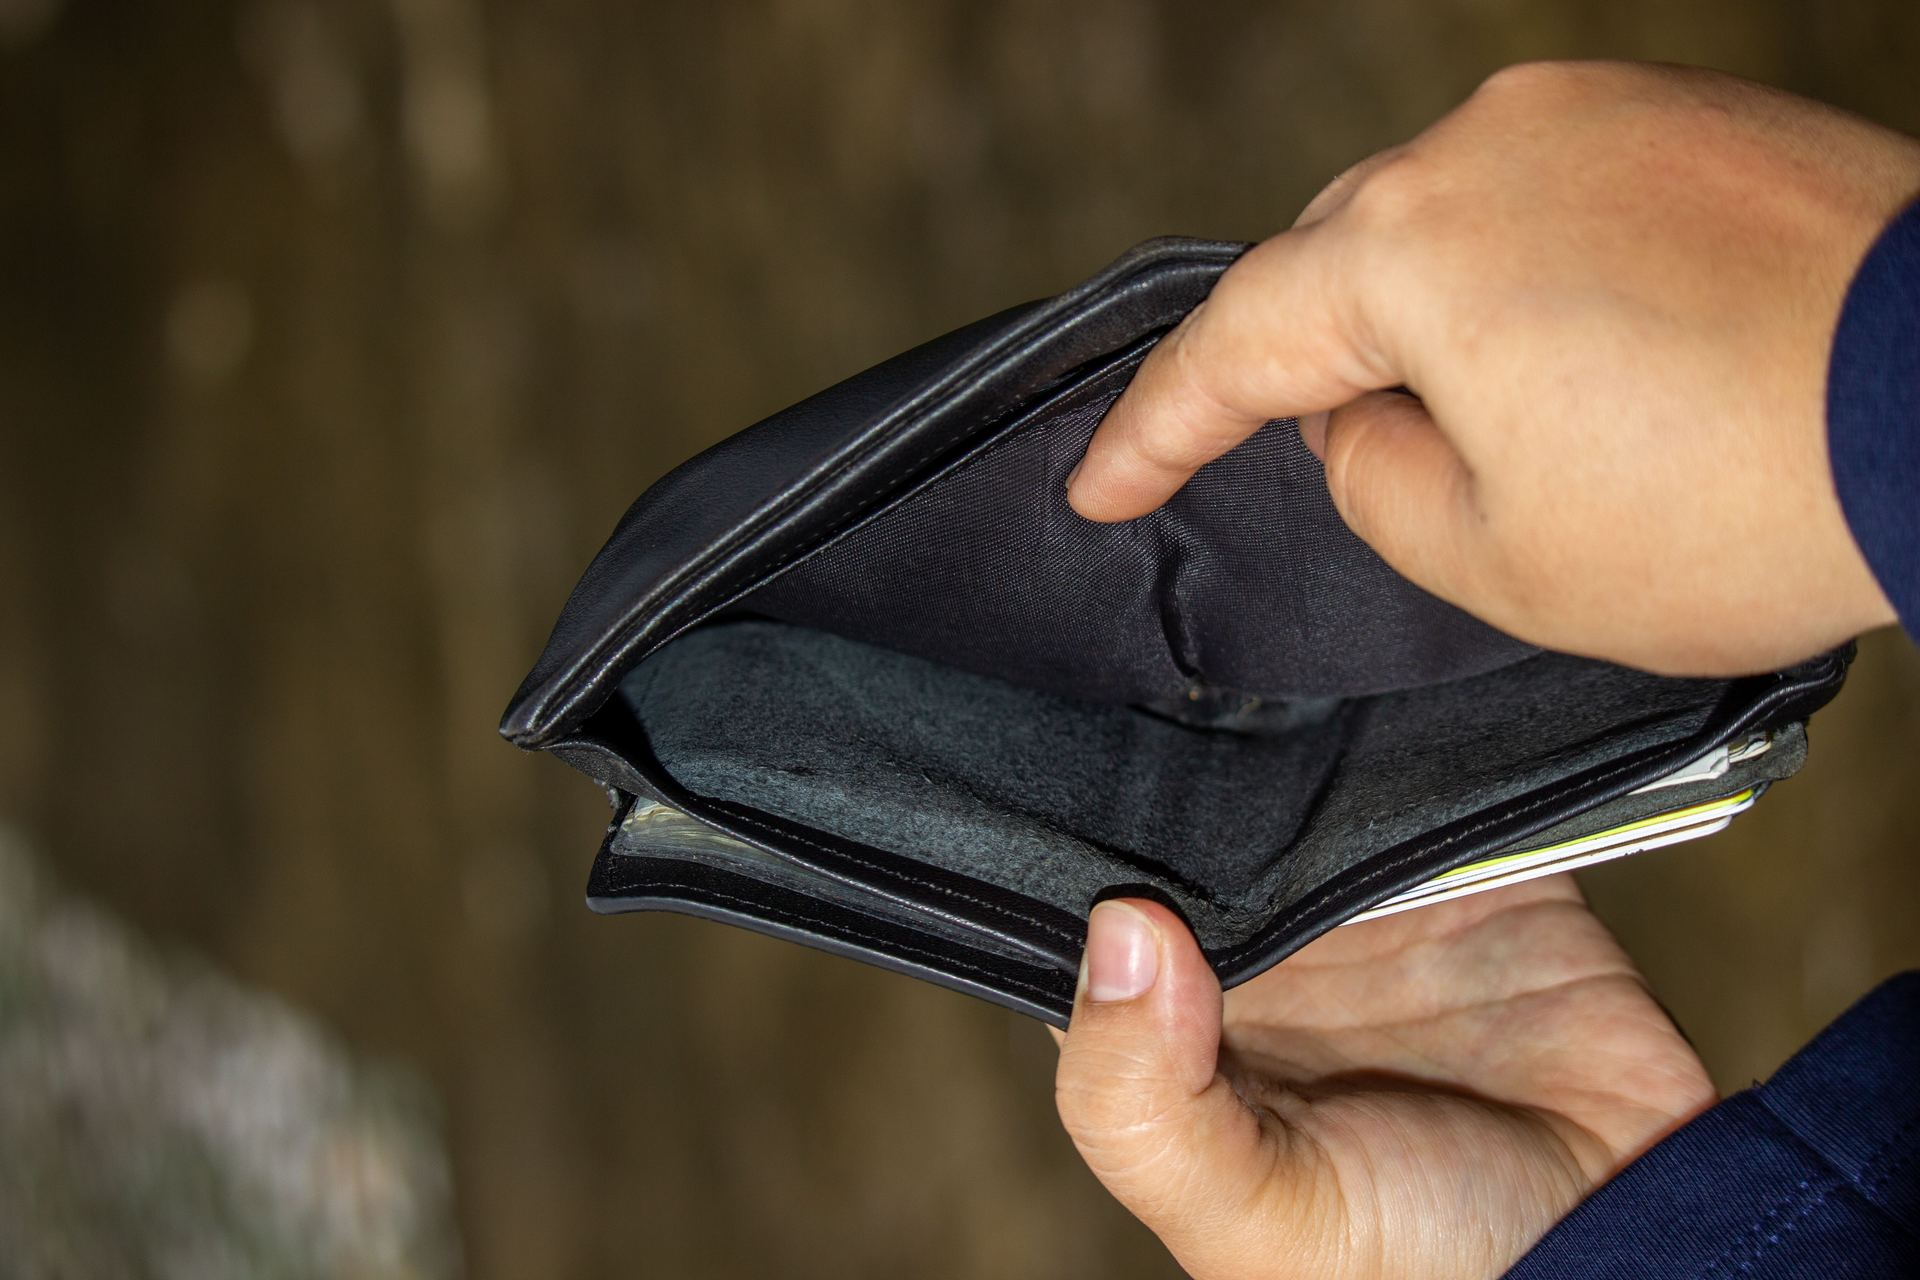
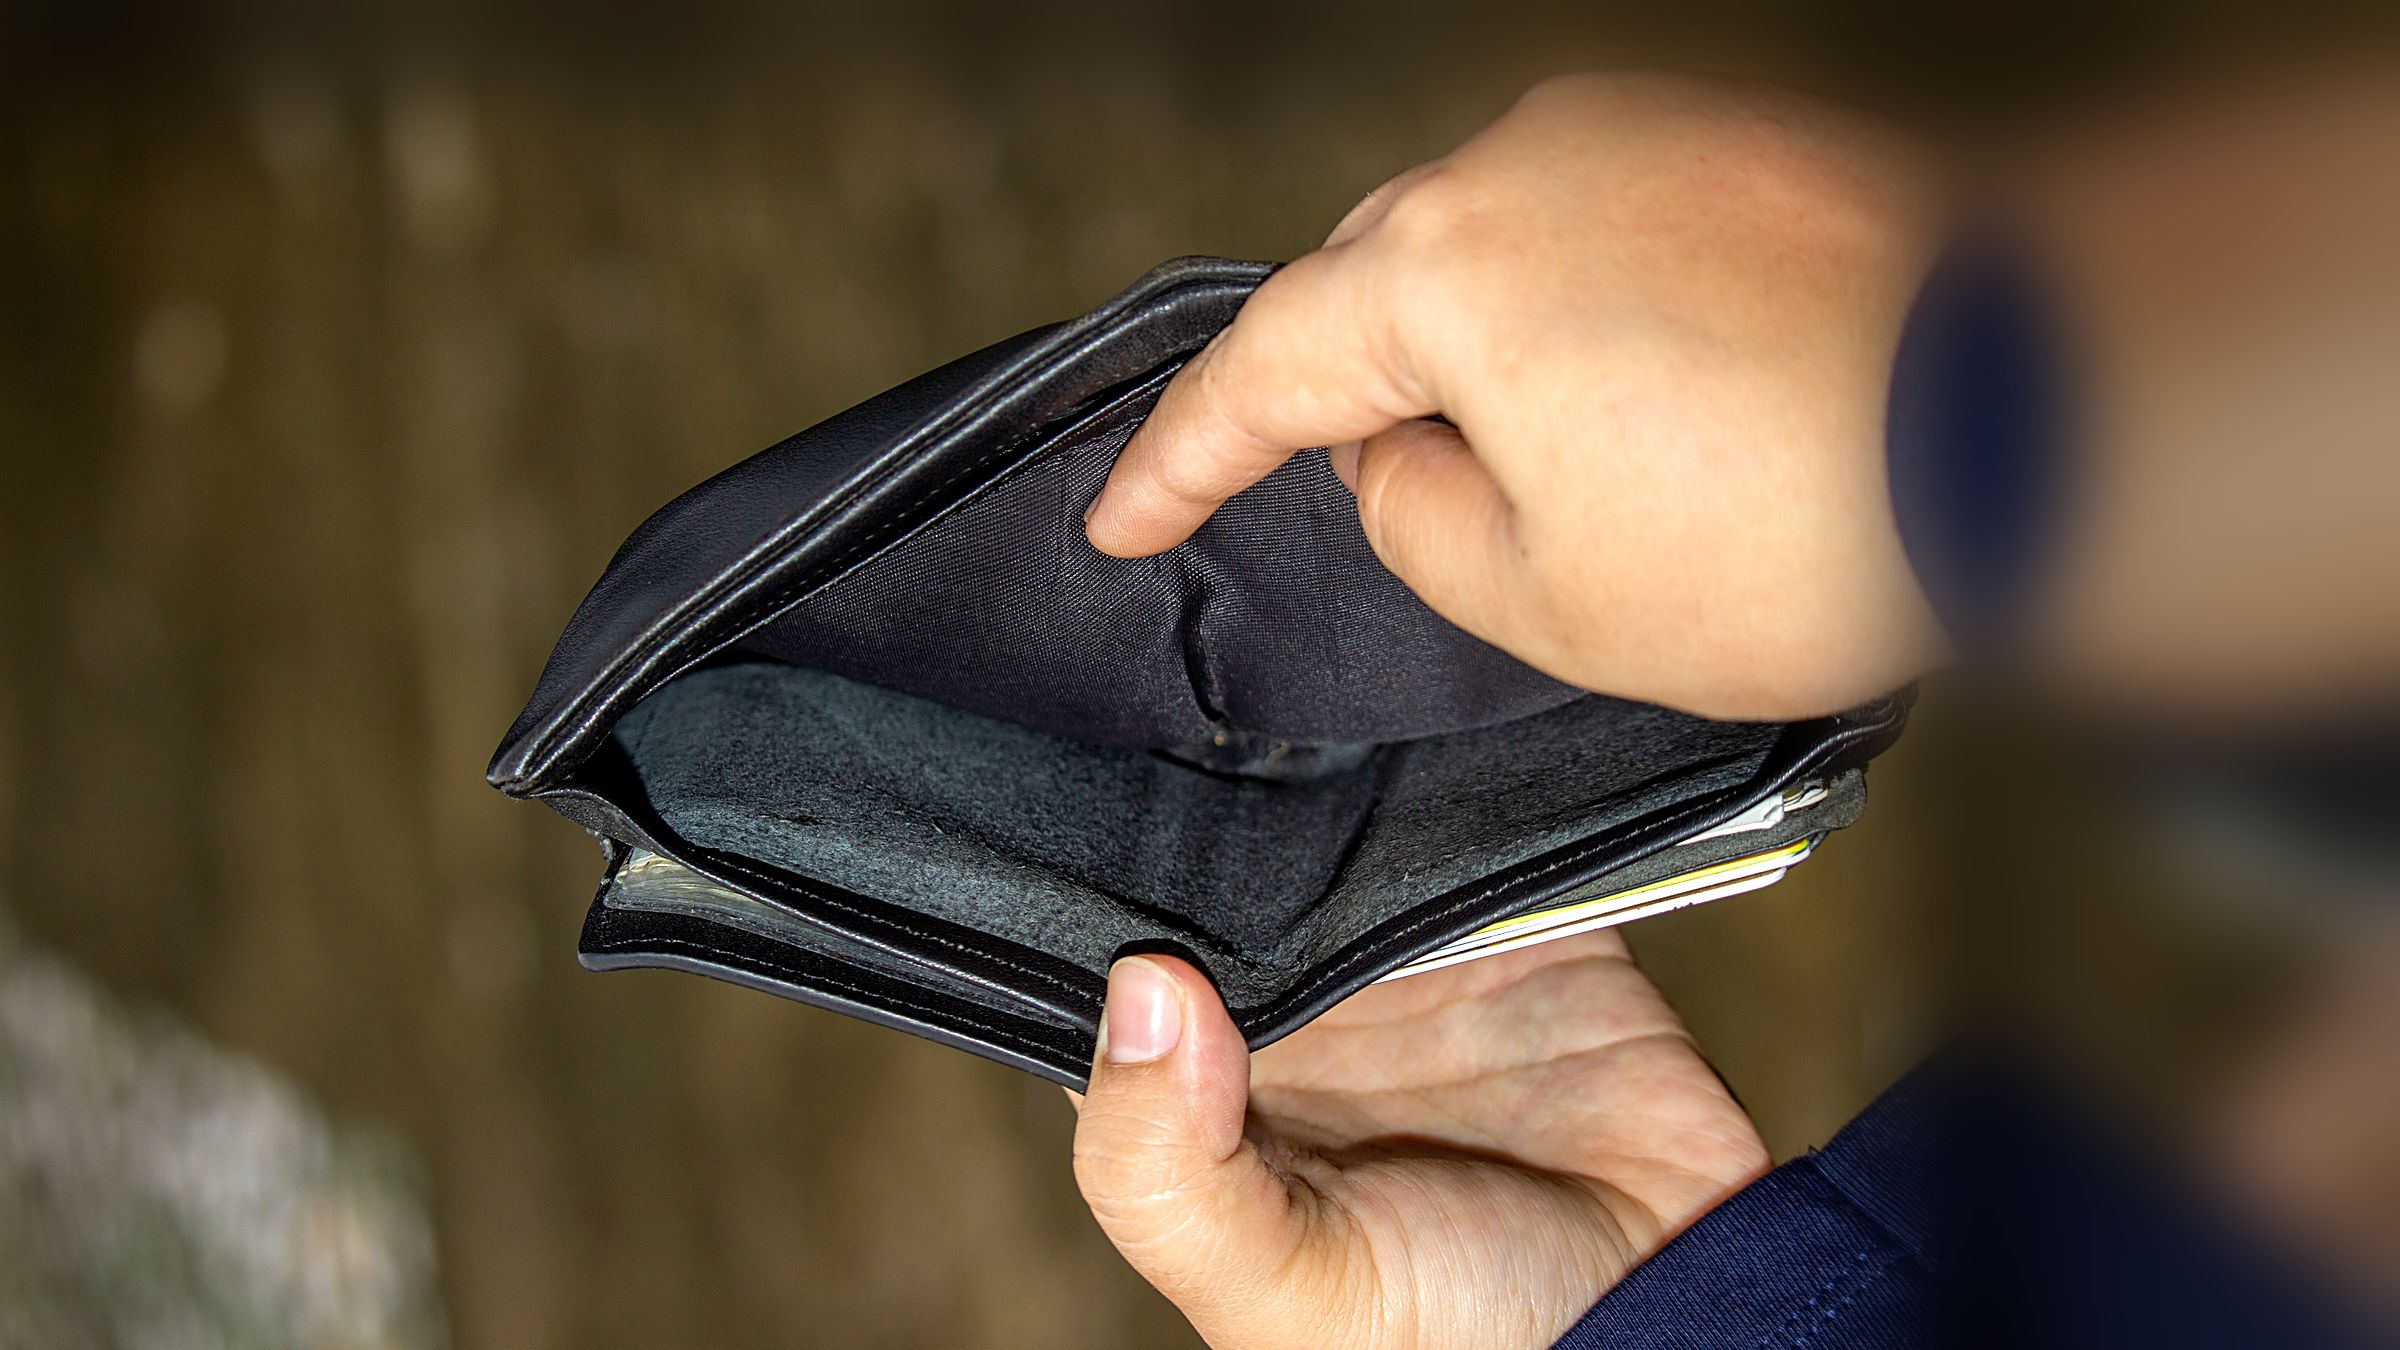
Hero: Portemonnaie zentriert, eigenes Mobilbild

diff --git a/src/pages/Index.tsx b/src/pages/Index.tsx
@@ -11,6 +11,7 @@ import { schemeOf } from "@/components/results/resultsTheme";
 import ScrollReveal from "@/components/home/ScrollReveal";
 import Counter from "@/components/home/Counter";
 import heroImg from "@/assets/hero-wallet.jpg";
+import heroImgMobile from "@/assets/hero-wallet-mobile.jpg";
 
 interface FundingTeaser {
   id: string;
@@ -71,14 +72,18 @@ const Index = () => {
         {/* Hero — full-bleed, emotional, one message */}
         <section className="relative min-h-[100svh] flex items-center justify-center overflow-hidden pt-28 pb-20">
           <div className="absolute inset-0">
-            <img
-              src={heroImg}
-              alt=""
-              aria-hidden="true"
-              className="w-full h-full object-cover object-center scale-110 blur-[2px] brightness-[0.9] saturate-[0.9]"
-            />
-            <div className="absolute inset-0 bg-gradient-to-b from-black/65 via-black/40 to-black/80" />
-            <div className="absolute inset-0 bg-[radial-gradient(ellipse_at_center,rgba(0,0,0,0.4)_0%,rgba(0,0,0,0)_55%)]" />
+            {/* Portemonnaie liegt in beiden Bildvarianten exakt in der Bildmitte */}
+            <picture>
+              <source media="(max-aspect-ratio: 3/4)" srcSet={heroImgMobile} />
+              <img
+                src={heroImg}
+                alt=""
+                aria-hidden="true"
+                className="w-full h-full object-cover object-center"
+              />
+            </picture>
+            <div className="absolute inset-0 bg-gradient-to-b from-black/50 via-black/15 to-black/65 md:from-black/60 md:via-black/25 md:to-black/75" />
+            <div className="absolute inset-0 bg-[radial-gradient(ellipse_at_center,rgba(0,0,0,0)_55%,rgba(0,0,0,0.3)_100%)] md:bg-[radial-gradient(ellipse_at_center,rgba(0,0,0,0)_35%,rgba(0,0,0,0.55)_100%)]" />
           </div>
 
           <motion.div
@@ -87,10 +92,10 @@ const Index = () => {
             transition={{ duration: 0.9, ease: [0.22, 1, 0.36, 1] }}
             className="relative z-10 text-center px-6 max-w-3xl mx-auto"
           >
-            <h1 className="text-white !text-[42px] md:!text-[72px] font-black leading-[1.05] mb-6 drop-shadow-[0_4px_24px_rgba(0,0,0,0.5)]">
+            <h1 className="text-white !text-[42px] md:!text-[72px] font-black leading-[1.05] mb-6 drop-shadow-[0_4px_28px_rgba(0,0,0,0.75)]">
               Da ist mehr drin!
             </h1>
-            <p className="text-white/85 !text-lg md:!text-xl max-w-xl mx-auto mb-10 !font-normal">
+            <p className="text-white/90 !text-lg md:!text-xl max-w-xl mx-auto mb-10 !font-normal [text-shadow:0_2px_12px_rgba(0,0,0,0.8)]">
               Beantworte 10 Fragen. Wir zeigen dir, was dir in Berlin zusteht.
             </p>
             <Button
